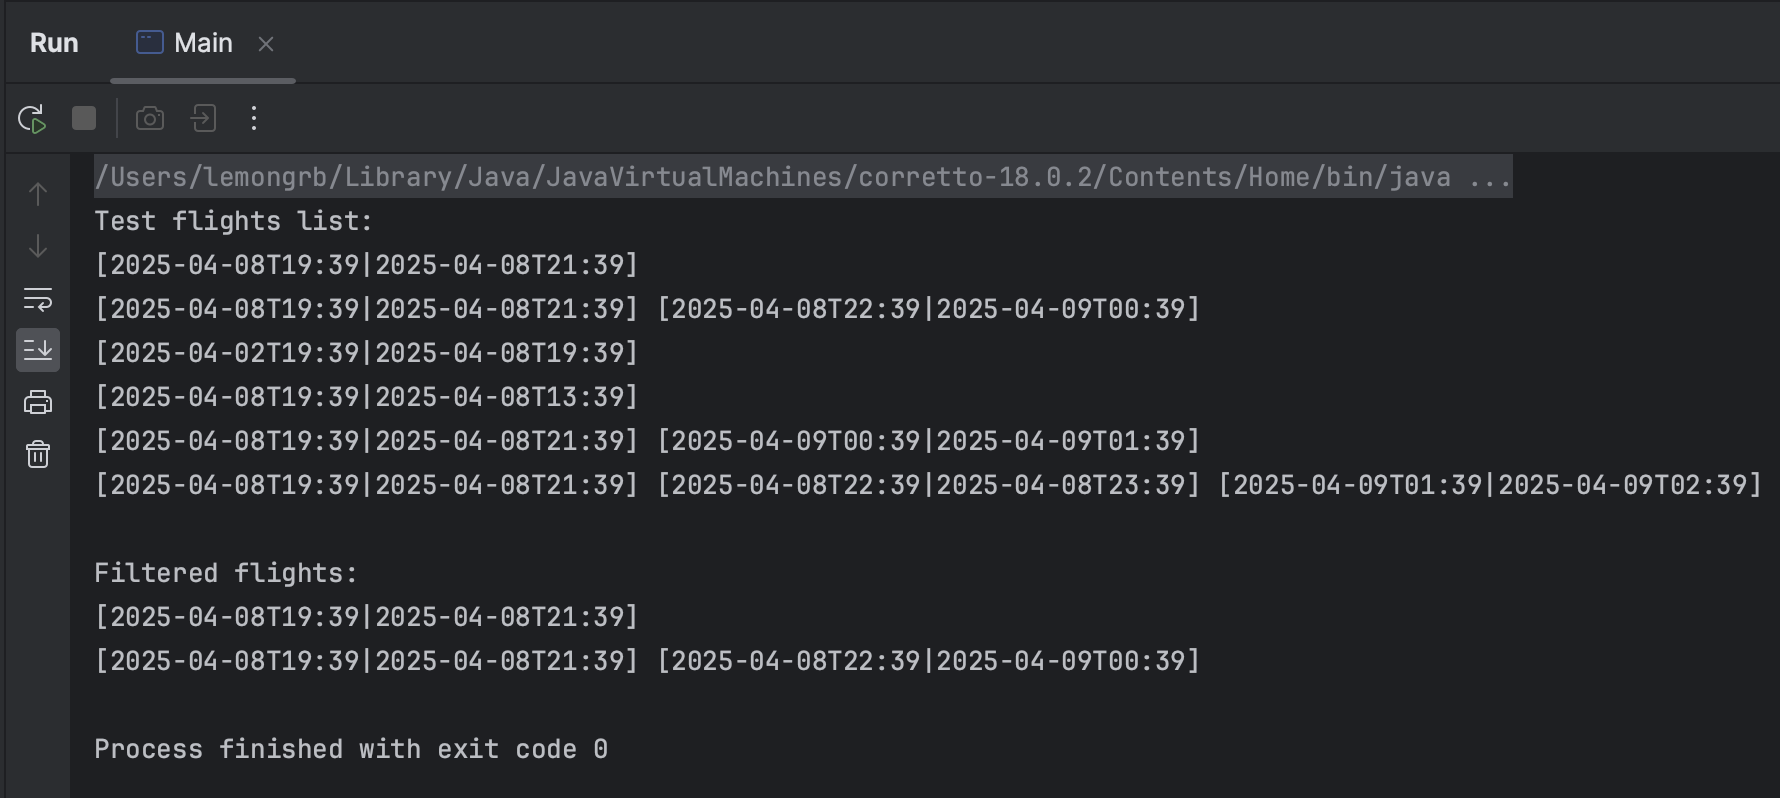
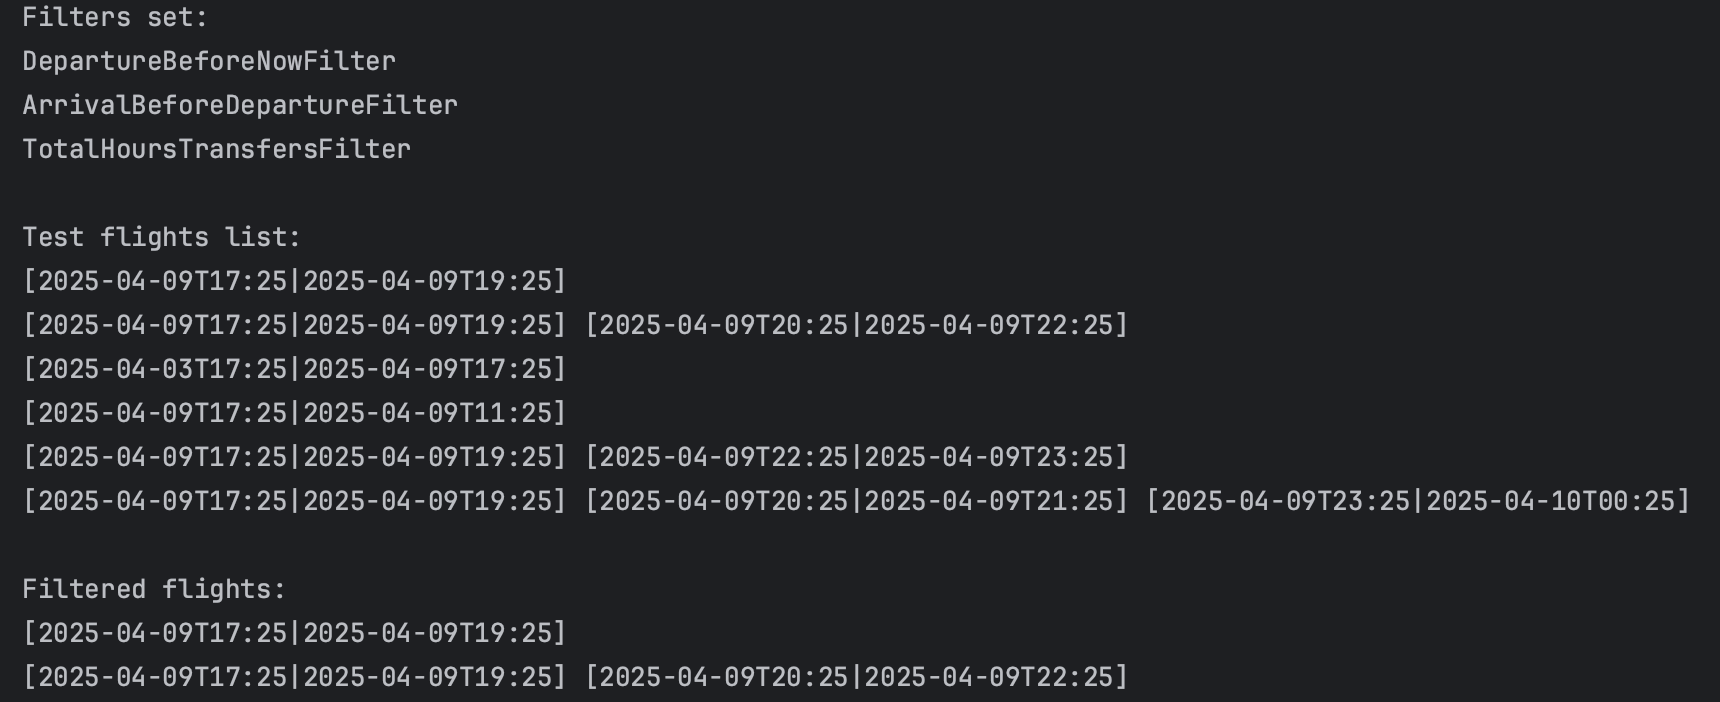
add new images

Changed region(s): [[0.0, 0.0, 1.0, 0.9872]]

diff --git a/src/main/java/com/gridnine/testing/service/FlightFilterService.java b/src/main/java/com/gridnine/testing/service/FlightFilterService.java
@@ -93,7 +93,7 @@ public class FlightFilterService {
     }
 
     private static void printFilters(Set<FlightFilter> filters) {
-        System.out.println("Filters set:");
+        System.out.println("\nFilters set:");
         filters.forEach(filter -> System.out.println(filter.getClass().getSimpleName()));
     }
 
